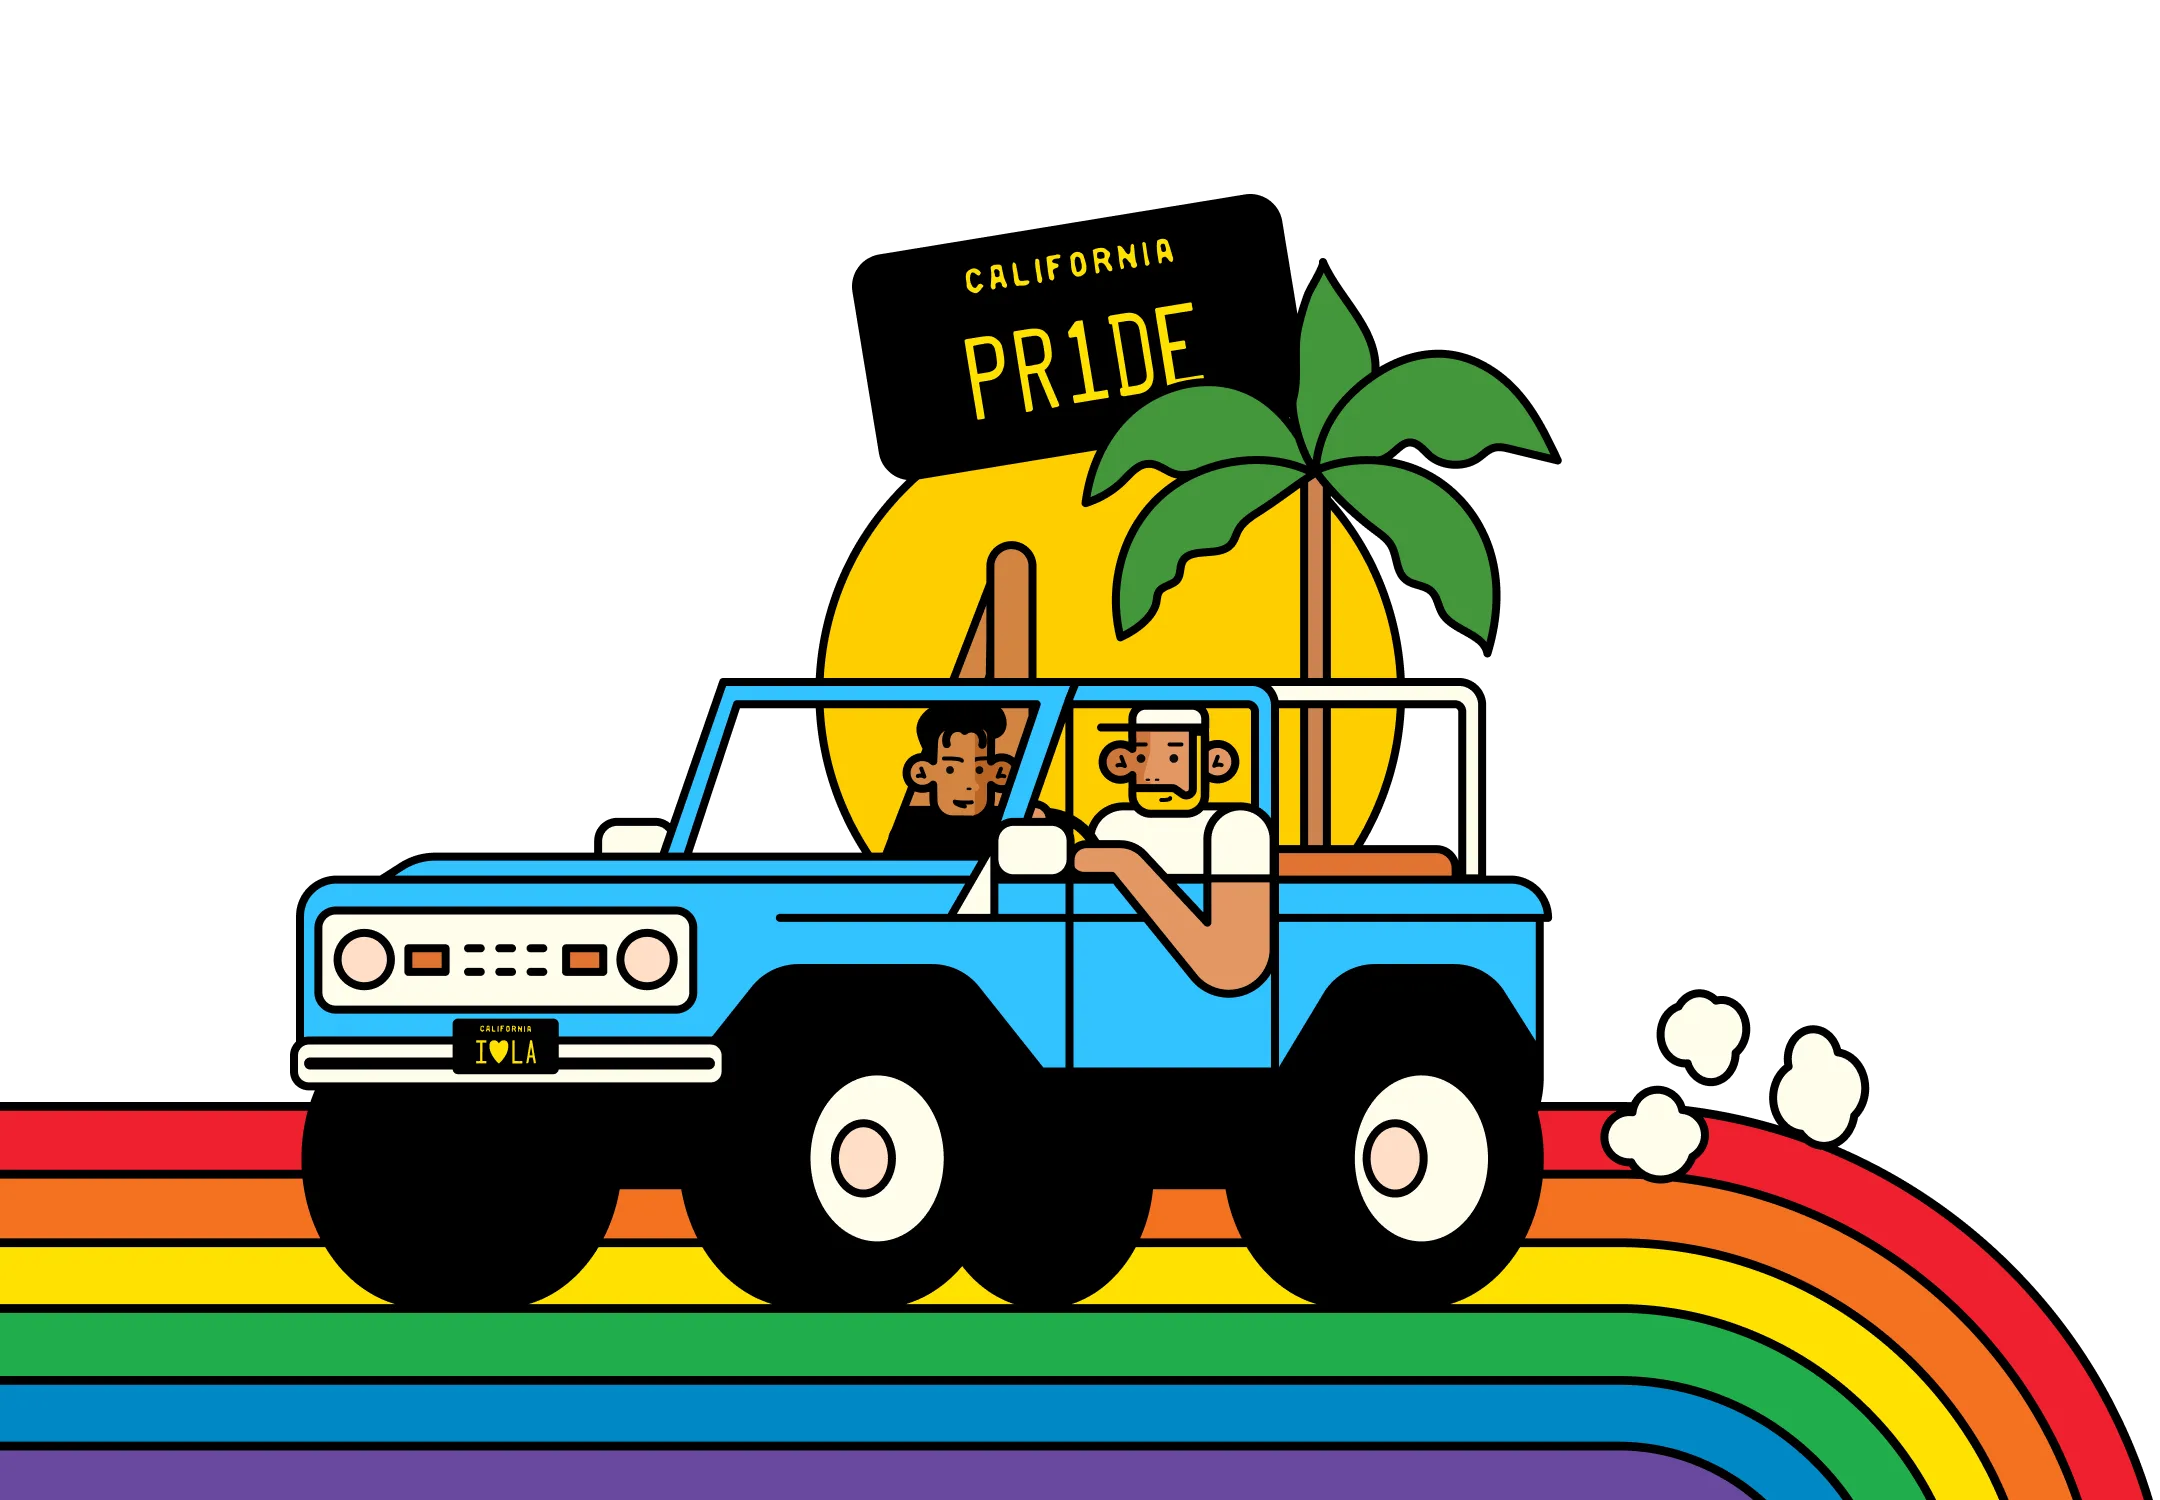
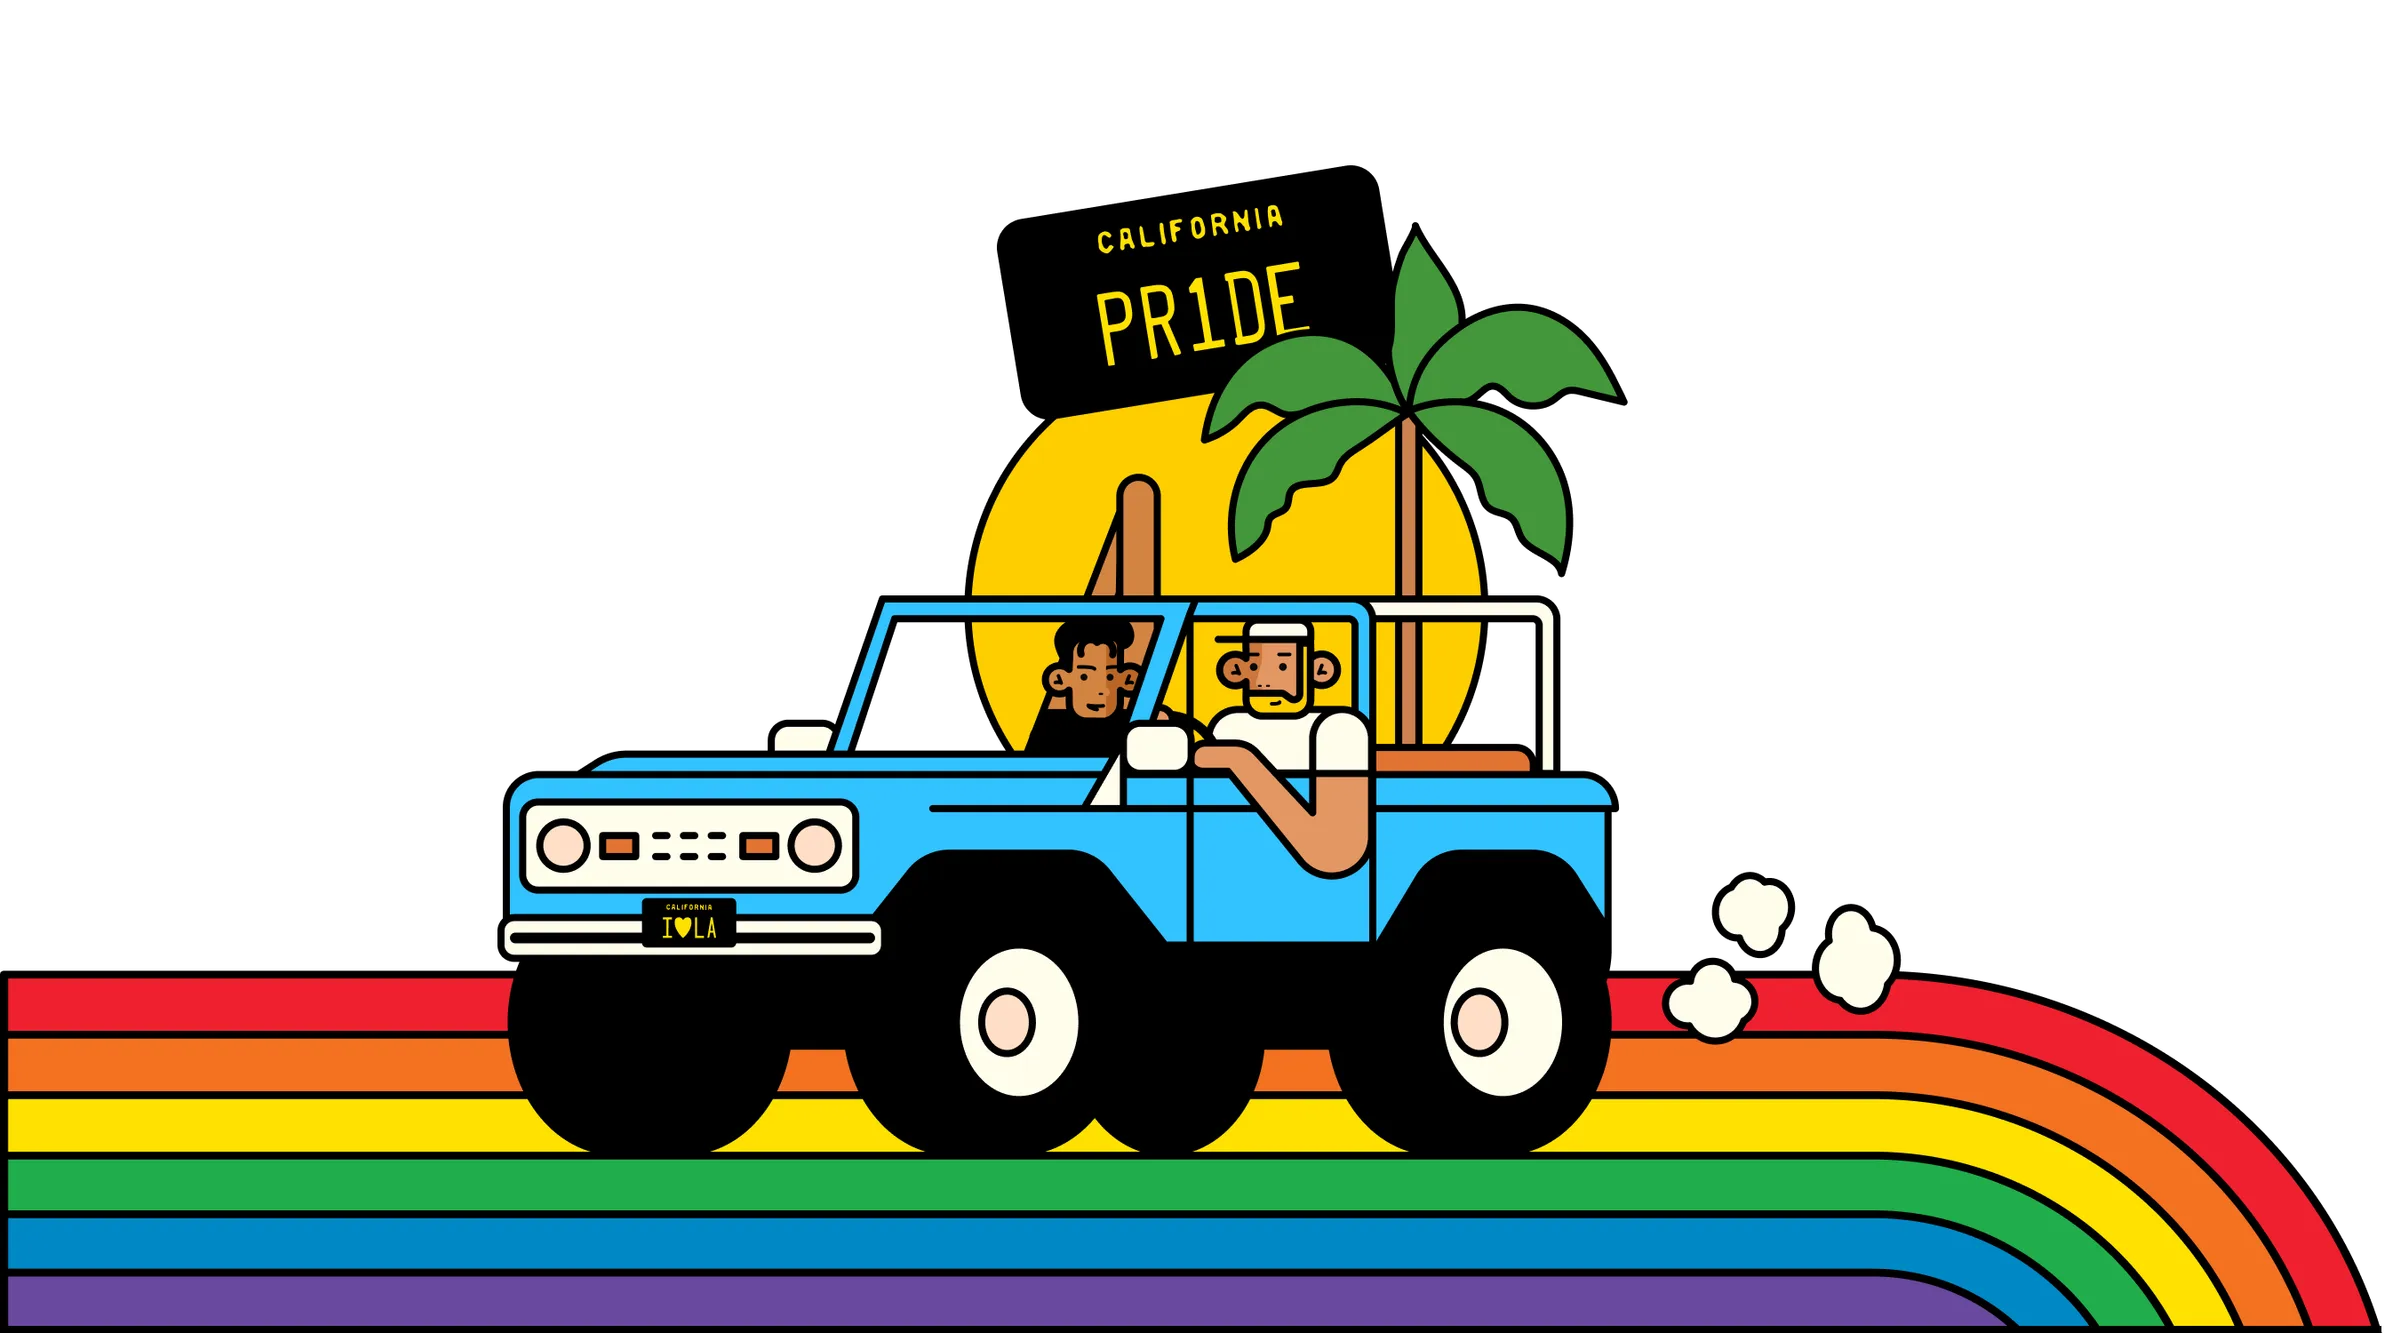
feat(work): rework LA Pride's header illustration per Josh's live review
Iterated on this against a real annotated mockup and a live-reloading
dev server:

- Josh replaced the source PNG twice — first for a wider export
  (2160x1500 → 2700x1500), then swapped which variant ships entirely
  (plain Bronco + a separate USPS truck → one Bronco driving over a
  full rainbow with a "CALIFORNIA PRIDE" plate). Only the final one is
  wired up; the other two never got a data entry.
- Switched from TiltIllustration to a plain static Image — Josh wanted
  no hover movement on this piece specifically, unlike the /work page's
  top row it was borrowed from.
- Sized by width instead of height (fills 80% of the remaining header
  row rather than a fixed height), and swapped items-center for
  items-end so it sits on the title's visual baseline instead of
  vertically centered against it — confirmed against a mockup with red
  guide lines showing exactly where the baseline and right edge should
  land.
- Right edge intentionally falls short of the hero frame's edge now
  (previously exact-matched via flex-1 fill) — asked to pull it in
  after seeing the full-width version live, landing above roughly the
  "Wristbands" word in the deliverables line rather than the frame edge
  or (per a since-abandoned request) a specific letter in "Merch",
  which wasn't reachable without overlapping the title.

Changed region(s): [[0.0, 0.123, 1.0, 1.0]]

diff --git a/app/work/[slug]/page.tsx b/app/work/[slug]/page.tsx
@@ -1,10 +1,10 @@
 import type { Metadata } from "next";
+import Image from "next/image";
 import Link from "next/link";
 import { notFound } from "next/navigation";
 
 import { Plate } from "@/components/ui/plate";
 import { Reveal } from "@/components/ui/reveal";
-import { TiltIllustration } from "@/components/ui/tilt-illustration";
 import { getProject, getProjectNeighbours, projects } from "@/lib/projects";
 import { toWaldeckCase } from "@/lib/waldeck-case";
 
@@ -75,24 +75,31 @@ export default async function ProjectPage({
             {project.title}
           </p>
 
-          <div className="mt-6 flex flex-wrap items-center gap-6">
-            <h1 className="type-display max-w-4xl leading-[1.1] text-accent">
+          <div className="mt-6 flex items-end gap-2">
+            <h1 className="type-display max-w-4xl shrink-0 leading-[1.1] text-accent">
               {displayTitle}
             </h1>
 
-            {/* Trial (la-pride only for now): same lean-toward-cursor
-                treatment as the /work page's top illustration row, sat on
-                the title's own line rather than up by the breadcrumb.
-                Hidden below md since the title needs the width there. */}
+            {/* Trial (la-pride only for now): sat on the title's own
+                baseline, anchored left right after the title and reduced
+                shy of the frame's right edge below — static, no hover
+                movement, unlike the /work page's top illustration row. */}
             {project.headerIllustrations && (
-              <div className="hidden shrink-0 items-center gap-4 md:flex">
+              <div className="hidden min-w-0 flex-1 items-end md:flex">
                 {project.headerIllustrations.map(({ src, aspect }) => (
-                  <TiltIllustration
+                  <div
                     key={src}
-                    src={src}
-                    aspect={aspect}
-                    height="clamp(80px, 10vw, 140px)"
-                  />
+                    className="relative w-[80%]"
+                    style={{ aspectRatio: aspect }}
+                  >
+                    <Image
+                      src={src}
+                      alt=""
+                      fill
+                      sizes="(max-width: 1344px) 40vw, 560px"
+                      className="object-contain object-left"
+                    />
+                  </div>
                 ))}
               </div>
             )}

diff --git a/lib/projects.ts b/lib/projects.ts
@@ -119,7 +119,7 @@ export const projects: Project[] = [
       src: "/work/la-pride/09-lamp-post-banner.webp",
     },
     headerIllustrations: [
-      { src: "/work/la-pride/bronco-rainbow.webp", aspect: "2160/1500" },
+      { src: "/work/la-pride/bronco-rainbow.webp", aspect: "2700/1500" },
     ],
     /**
      * Not-landscape first, because the template pairs the first two into a
